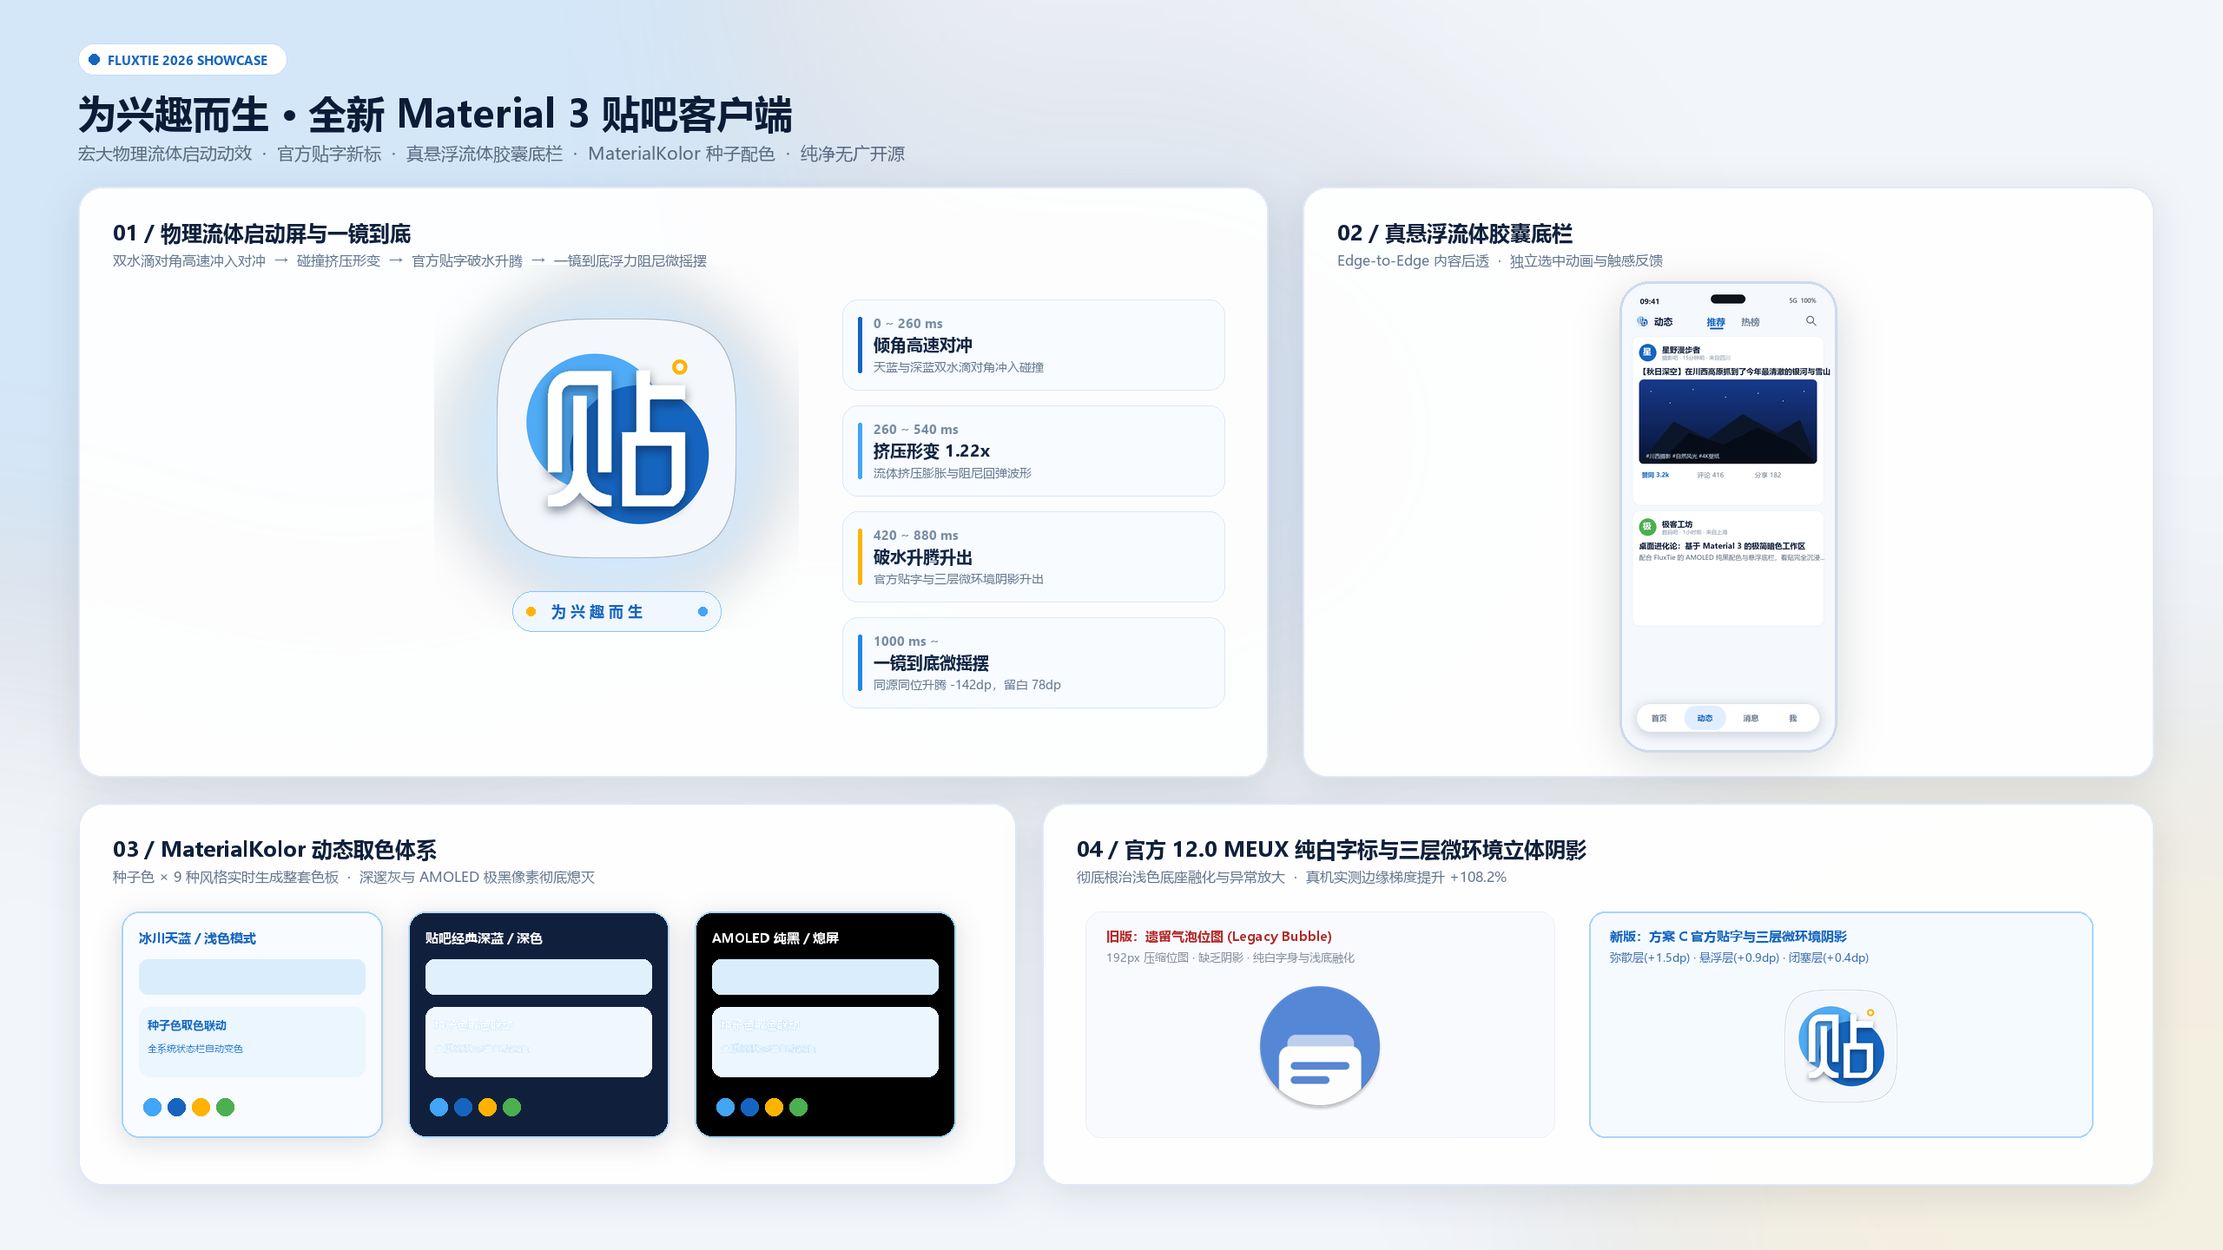
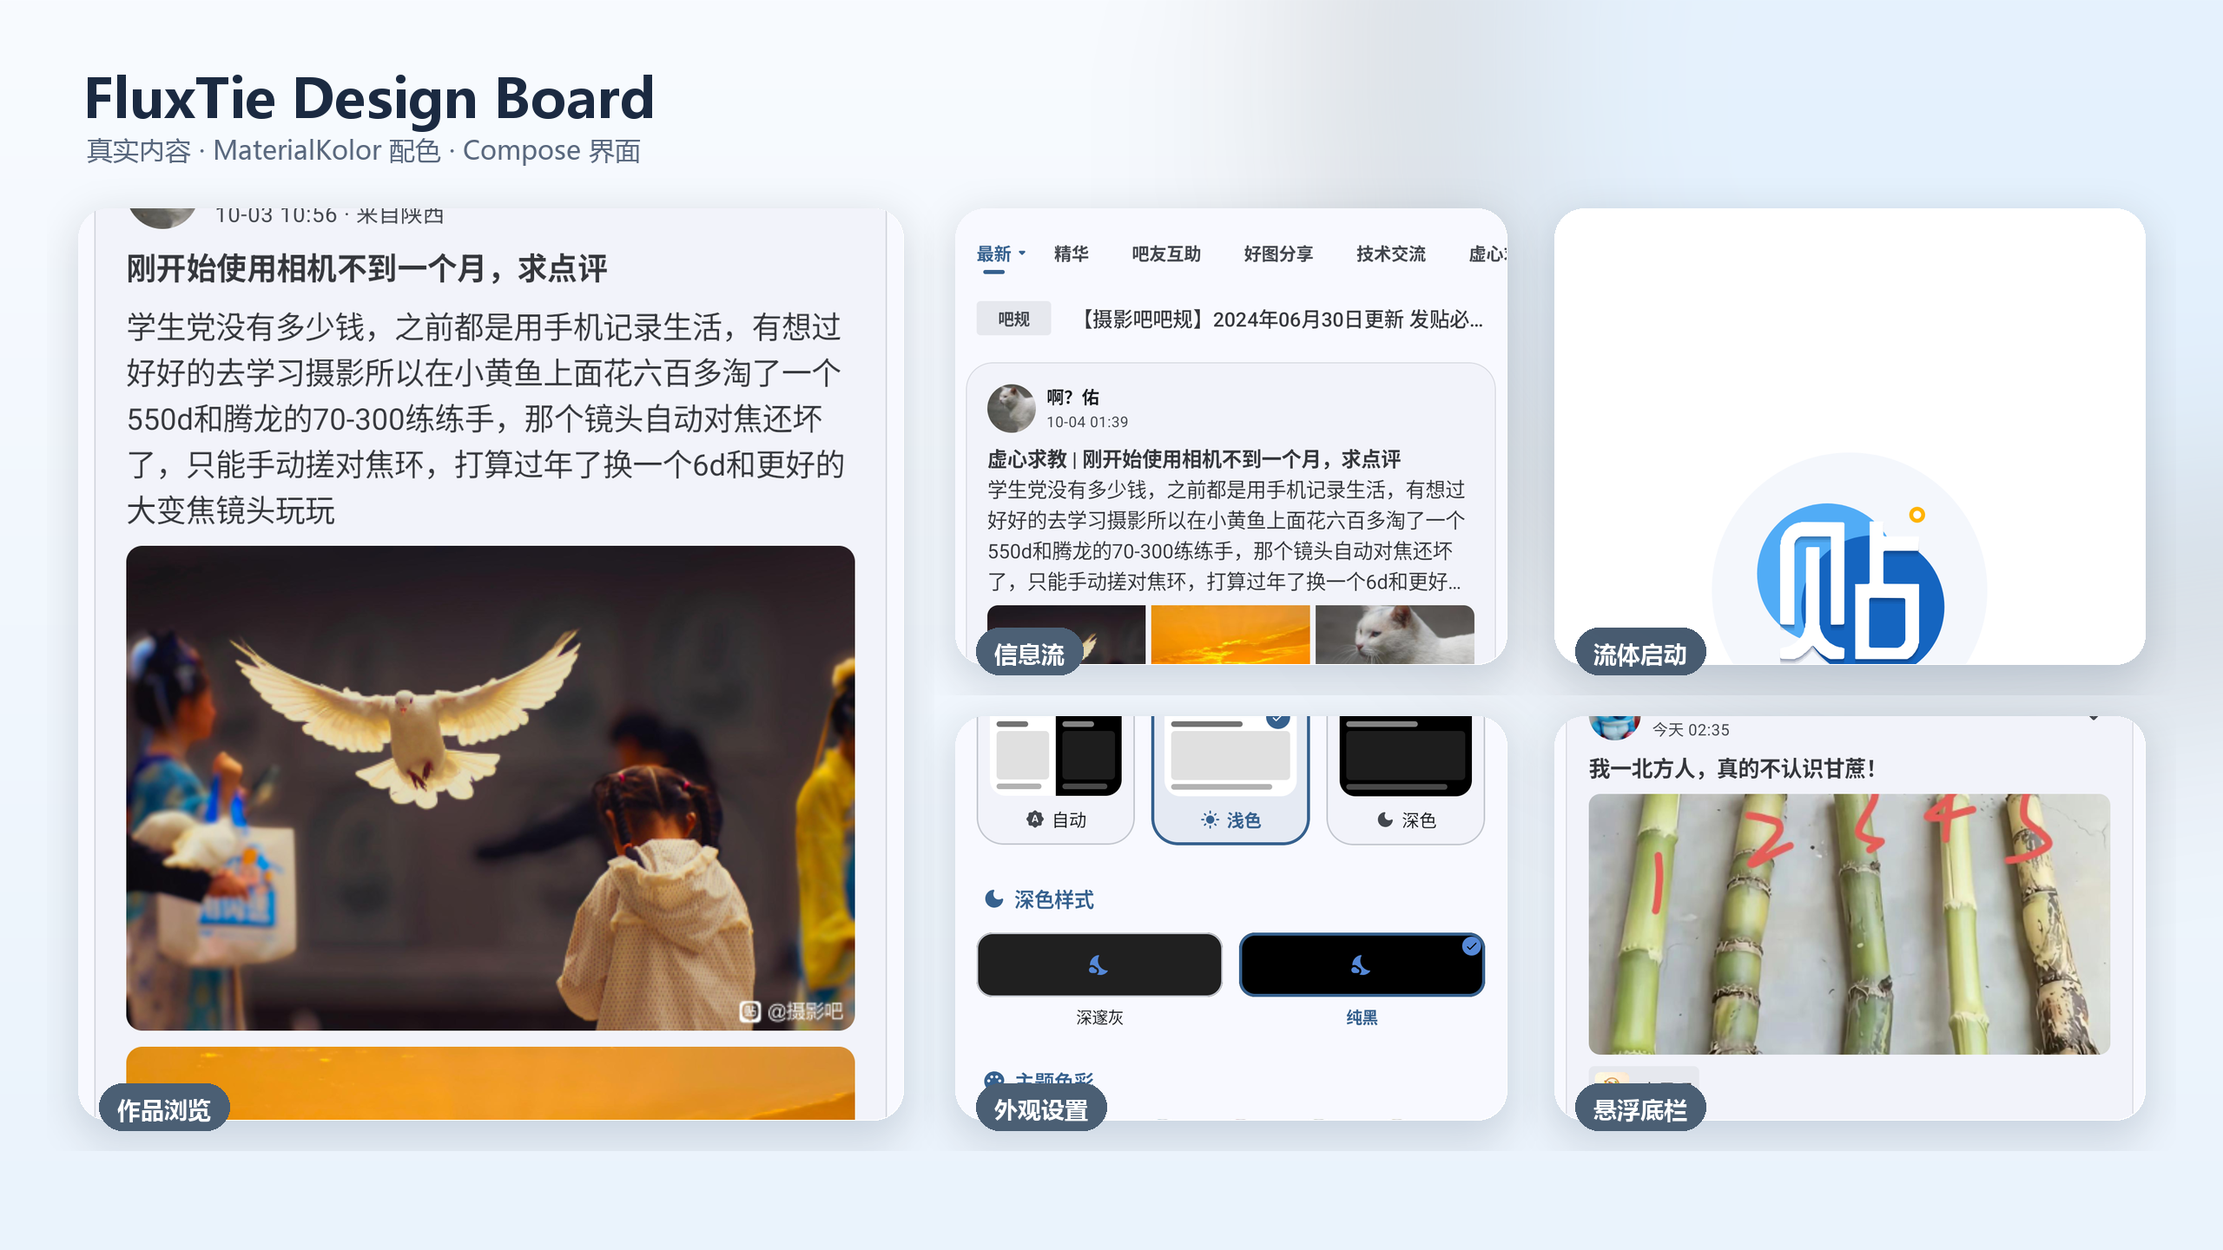
docs: 重写README并更新全部展示素材
- 重写项目介绍、原版对比、下载构建、Linux.do致谢与开源边界
- 重新生成热门头图、特性看板、Bento看板与六张界面预览图

diff --git a/README.md b/README.md
@@ -1,142 +1,143 @@
 <p align="center">
-  <img src="docs/images/logo.png?v=1.0.9" width="160" alt="FluxTie Logo" />
+  <img src="docs/images/logo.png?v=1.0.9-r4" width="128" alt="FluxTie Logo" />
 </p>
 
 <h1 align="center">FluxTie</h1>
 
 <p align="center">
-  一款 Material 3 风格的<strong>非官方第三方贴吧客户端</strong> — 基于 TiebaLite 深度重构，全新外观体系 · 真悬浮底栏 · MD3 动态配色 · 细腻动效
+  <strong>为兴趣而生</strong> —— 基于 TiebaLite 深度重构的非官方第三方贴吧客户端
 </p>
 
 <p align="center">
-  <a href="https://github.com/makise2060/FluxTie/releases"><img src="https://img.shields.io/github/v/release/makise2060/FluxTie?color=2563eb&label=Release&include_prereleases" alt="Release" /></a>
-  <a href="https://developer.android.com/about/versions/16"><img src="https://img.shields.io/badge/Android-7.0%2B_(API_23%2B)-3ddc84?logo=android&logoColor=white" alt="Min API" /></a>
+  <a href="https://github.com/makise2060/FluxTie/releases"><img src="https://img.shields.io/github/v/release/makise2060/FluxTie?color=1e88e5&label=Release" alt="Release" /></a>
+  <a href="https://developer.android.com/studio/releases/platforms#6.0"><img src="https://img.shields.io/badge/Android-6.0%2B%20(API%2023%2B)-3ddc84?logo=android&logoColor=white" alt="Android" /></a>
   <a href="https://kotlinlang.org"><img src="https://img.shields.io/badge/Kotlin-2.3-7f52ff?logo=kotlin&logoColor=white" alt="Kotlin" /></a>
-  <a href="https://developer.android.com/jetpack/compose"><img src="https://img.shields.io/badge/Jetpack%20Compose-2026.05-4285f4?logo=jetpackcompose&logoColor=white" alt="Compose" /></a>
-  <a href="https://developer.android.com/build/releases/gradle-plugin"><img src="https://img.shields.io/badge/AGP-9.4-006400?logo=gradle&logoColor=white" alt="AGP" /></a>
+  <a href="https://developer.android.com/jetpack/compose"><img src="https://img.shields.io/badge/Jetpack%20Compose-MaterialKolor-4285f4?logo=jetpackcompose&logoColor=white" alt="Jetpack Compose" /></a>
   <a href="https://github.com/makise2060/FluxTie/blob/main/LICENSE"><img src="https://img.shields.io/badge/License-GPL--3.0-red?logo=gnu&logoColor=white" alt="License" /></a>
 </p>
 
----
-
 > [!WARNING]
-> **本软件及源码仅供学习交流使用，严禁用于商业用途。**
-
-## 🌟 核心特性 Showcase
+> 本项目仅供学习交流，不用于商业用途；它不是百度或贴吧的官方客户端，相关商标与内容权利归其权利人所有。
 
 <p align="center">
-  <img src="docs/images/bento_grid_showcase.png?v=1.0.9" width="920" alt="FluxTie Bento Grid Showcase" />
+  <img src="docs/images/showcase_hero.png?v=1.0.9-r4" alt="FluxTie 主视觉" />
 </p>
 
-- 💧 **物理流体动力学启动**：双水滴对角高速冲入对冲 → 挤压形变阻尼回弹 → 官方贴字破水升腾 → 一镜到底浮力阻尼微摇摆与「为兴趣而生」随动流光微徽章。
-- 🎨 **MaterialKolor 种子配色**：种子色 × 9 种配色风格（柔和色调/鲜明/高保真…）实时生成整套色板，深色支持深邃灰与 AMOLED 极黑像素熄灭。
-- 🎈 **真悬浮胶囊底栏**：Edge-to-Edge 内容从毛玻璃胶囊后自然透出，触感反馈，Tab 切换交叉淡化平滑过渡。
-- 💬 **纯净体验打磨**：全量换装官方 12.0 MEUX 纯白字标与三层微环境立体阴影（锐度提升 +108.2%），个人表情包云同步与长按原地放大预览，纯净无广开源。
+## 项目简介
 
-## 📸 界面实机预览
+FluxTie fork 自 [HuanCheng65/TiebaLite](https://github.com/HuanCheng65/TiebaLite)，并以 [zzc10086/TiebaLite](https://github.com/zzc10086/TiebaLite) 的 4.0-dev 分支为基础继续深度重构。项目保留贴吧客户端的核心能力，同时以 Jetpack Compose、MaterialKolor 与现代 Android 工具链重新打磨浏览、主题、动效和更新体验。
+
+- 无自建内容后端，帖子、图片等贴吧业务数据直连官方接口。
+- 应用更新检查使用 GitHub Releases，不后台静默下载。
+- 应用 ID 为 <code>com.makise.fluxtie</code>，可与官方贴吧及原版 TiebaLite 共存。
+- 包名不同，因此不会接管原版数据；从原版迁移需重新登录并按需调整设置。
+
+## 核心特性
+
+<p align="center">
+  <img src="docs/images/feature_showcase.png?v=1.0.9-r4" alt="FluxTie 核心特性" />
+</p>
+
+- **双阶段流体启动**：系统启动屏与 Compose 启动覆盖层衔接，双水滴、贴字与星石构成完整启动动效。
+- **官方贴字新标**：参考贴吧 12.0 MEUX 字形重构“贴”字图标，并同步替换应用内主要图标资源。
+- **MaterialKolor 种子配色**：14 个预置种子色、自定义取色、9 种配色风格、浅色/深色/AMOLED 纯黑与 Android 12+ 系统取色。
+- **真悬浮底栏**：毛玻璃 Dock 悬浮于内容之上，支持按住拖拽、跟手预览、就近切换与触感反馈；低版本系统自动降级。
+- **个人表情包**：收藏与 DIY 表情支持云端同步，可在编辑器、帖子和评论中直接渲染。
+- **应用内更新**：检查、更新日志、下载进度、取消、系统安装与“忽略当前版本”一站式完成。
+- **现代图片链路**：以 Sketch 为主要图片加载框架，大图预览使用 ZoomImage，并保留缩略图占位与加载状态反馈。
+
+## 界面预览
 
 <div align="center">
 
-| 启动屏 (方案 C 流光) | 动态流 (悬浮底栏) | 沉浸看帖 (卡片排版) |
+| 启动屏 | 动态流 | 帖子页 |
 | :---: | :---: | :---: |
-| <img src="docs/images/preview_splash.png?v=1.0.9" width="280" alt="启动屏" /> | <img src="docs/images/preview_explore.png?v=1.0.9" width="280" alt="动态流" /> | <img src="docs/images/preview_thread.png?v=1.0.9" width="280" alt="帖子页" /> |
-| **我 (个人主页)** | **分组设置 (M3 规范)** | **外观引擎 (动态配色/极黑)** |
-| <img src="docs/images/preview_user.png?v=1.0.9" width="280" alt="个人主页" /> | <img src="docs/images/preview_settings.png?v=1.0.9" width="280" alt="分组设置" /> | <img src="docs/images/preview_appearance.png?v=1.0.9" width="280" alt="外观与取色" /> |
+| <img src="docs/images/preview_splash.png?v=1.0.9-r4" width="240" alt="启动屏" /> | <img src="docs/images/preview_explore.png?v=1.0.9-r4" width="240" alt="动态流" /> | <img src="docs/images/preview_thread.png?v=1.0.9-r4" width="240" alt="帖子页" /> |
+| **吧页信息流** | **外观设置** | **设置主页** |
+| <img src="docs/images/preview_forum.png?v=1.0.9-r4" width="240" alt="吧页信息流" /> | <img src="docs/images/preview_appearance.png?v=1.0.9-r4" width="240" alt="外观设置" /> | <img src="docs/images/preview_settings.png?v=1.0.9-r4" width="240" alt="设置主页" /> |
 
 </div>
 
-## ✨ 特性
+<p align="center">
+  <img src="docs/images/bento_grid_showcase.png?v=1.0.9-r4" alt="FluxTie 设计看板" />
+</p>
 
-- 🎨 **MD3 动态配色** — 种子色 × 9 种配色风格（柔和色调/鲜明/高保真…）实时生成整套配色，14 款精选预置色板 + 自定义取色，全部即点即生效
-- 🌗 **深浅模式** — 浅色 / 深色 / 跟随系统三卡预览；深色样式支持深邃灰与 AMOLED 纯黑
-- 🎈 **真悬浮胶囊底栏** — 内容 edge-to-edge 从半透明胶囊后透出，选中胶囊动画 + 触感反馈，Tab 切换交叉淡化过渡
-- 🎬 **M3 动效体系** — 居中 Logo 一镜到底上浮连贯承接、Shared Axis 页面转场、液态 blob 水球 Loading、骨架屏加载、预测性返回手势预览
-- 💗 **点赞微动效** — 心跳脉冲 + 光环扩散 + 粒子爆发 + 数字滚动，全站统一点赞体验
-- 📜 **顶栏滚动收起** — 动态页内容上滑自动收起标题栏，双击快速回顶
-- 🗂 **分组卡片式设置** — 对齐 Android 13+ 系统设置观感的分组卡片体系，全局 Material 3 开关组件
-- 📋 **应用日志** — 内置日志查看器，级别过滤 / 一键复制 / 分享，问题反馈更高效
-- 💬 **完整贴吧能力** — 首页 / 动态（关注·推荐·热榜）/ 通知 / 我的，看贴回贴、一键签到等原版功能全部保留
+## 相对原版的升级
 
-## 🚀 相对原版的升级
+| 维度 | 原版 TiebaLite | FluxTie |
+| --- | --- | --- |
+| 界面方向 | 以既有 View/XML 界面为主 | 新 UI 以 Jetpack Compose 为主，逐步统一页面与组件 |
+| 主题系统 | 固定主题列表，部分调整不够即时 | MaterialKolor 种子色引擎，14 个预置色、9 种风格与实时预览 |
+| 深色体验 | 深色模式能力较基础 | 浅色、深色、深邃灰、AMOLED 纯黑及 Android 12+ 系统取色 |
+| 底部导航 | 贴底导航栏 | 可开关的悬浮毛玻璃 Dock，支持拖拽切换与动效反馈 |
+| 启动体验 | 静态图标与传统淡入 | 系统启动屏加 Compose 覆盖层的双阶段流体动效 |
+| 图片体验 | 传统图片加载与查看 | Sketch 加载、缩略图占位、crossfade 与 ZoomImage 大图预览 |
+| 表情能力 | 基础表情与收藏 | 收藏/DIY 云端同步、编辑器渲染、长按预览与帖子评论展示 |
+| 应用更新 | 以手动下载安装为主 | GitHub Releases 检查、下载、安装与版本忽略 |
+| 工具链 | AGP 8.13、Gradle 8.14、compileSdk 36 | AGP 9.4、Gradle 9.7、Kotlin 2.3、compileSdk/targetSdk 37 |
+| 应用共存 | <code>com.huanchengfly.tieba.post</code> | <code>com.makise.fluxtie</code>，可与原版和官方客户端共存 |
 
-本项目 Fork 自 [TiebaLite](https://github.com/zzc10086/TiebaLite)，在原版基础上完成了一次系统的现代化改造：
+签到、多账号、发帖回帖、收藏、屏蔽、浏览记录、内置日志查看器等上游能力继续保留，并在新界面中逐步统一交互与视觉。
 
-### 🎨 主题引擎重做
-| 原版 | FluxTie |
-|---|---|
-| 固定主题名列表（清新蓝/少女粉…） | **MD3 种子配色**：种子色 × 配色风格动态生成整套色板 |
-| Material You 动态取色（仅 Android 12+） | MaterialKolor 引擎，全版本可用 |
-| 选色后部分效果需重启 | 全部即时生效，设置页所见即所得 |
+## 下载与安装
 
-### 🛠 工具链升级
-| 组件 | 原版 | FluxTie |
-|---|---|---|
-| Android Gradle Plugin | 8.13.2 | **9.4.0**（内置 Kotlin 支持） |
-| Gradle | 8.14.5 | **9.7.1** |
-| compileSdk / targetSdk | 36 | **37** |
-| Hilt | 2.58 | **2.60** |
-| 配色引擎 | — | **MaterialKolor 5.0.1** |
+1. 在 [Releases](https://github.com/makise2060/FluxTie/releases) 下载最新 APK。
+2. 最低支持 **Android 6.0（API 23）**。
+3. v1.0.3 起发布签名已统一，后续版本可正常覆盖升级；**v1.0.2 及更早版本升级前需先卸载**。
+4. FluxTie 与官方贴吧、原版 TiebaLite 包名不同，可直接共存安装。
 
-### 🧹 细节打磨
-- Logo 焕新与一镜到底启动动效：流光卡片（Flux-Tie Bubble）设计语言，融合贴吧经典对话气泡与 M3 双层悬浮流体，全套自适应与 Android 13+ 单色主题图标；系统启动屏 1000ms AVD 矢量动效 ➔ 居中 Logo 一镜到底平滑上浮并缩放收敛为头部图标 ➔ 随动展开标语与液态水球 Loading，彻底告别页面跳闪与生硬过渡
-- 卡片化列表：动态流 / 吧页 / 帖子楼层统一 12dp 留白与发丝线描边，告别生硬分隔线
-- 点赞微动效：心跳双脉冲 + 旋转摆动 + 光环粒子爆发，全站统一点赞组件
-- 骨架屏体系：帖子页 / 楼中楼 / 吧页 / 个人页加载骨架，Shimmer 高光扫过
-- 真悬浮底栏：列表呼吸位统一，末项可完整滚出胶囊（开关可回退传统贴底样式）
-- 预测性返回：返回手势实时预览页面退场动画（Android 13+，使用习惯设置可关闭）
-- 权限弹窗统一新图标；状态栏字体颜色随明暗模式正确切换
-- KSP 全链路构建，Java 17 目标，`FluxTie-v{版本}-{渠道}.apk` 规范命名
+CI 会基于 <code>v*</code> tag 自动构建 APK 并上传 Release；Release 正文与截图以发布页为准。
 
-## 📥 下载
+## 构建
 
-前往 [**Releases**](https://github.com/makise2060/FluxTie/releases) 下载最新 APK，或自行构建（见下）。
+要求 **JDK 17+**、Android SDK 与可执行 Gradle Wrapper 的环境。
 
-> [!NOTE]
-> 本包名（`com.makise.fluxtie`）与原版 TiebaLite 不同，可作为独立应用安装，互不影响。
-
-## 🛠 技术栈
-
-| 层 | 技术 |
-|---|---|
-| 语言 | **Kotlin 2.3** · Java 17 |
-| UI | **Jetpack Compose**（Material 组件 + 自研 M3 风格组件库） |
-| 主题 | **MaterialKolor 5.0**（MD3 DynamicSchemeVariant 配色引擎） |
-| 架构 | 手写 MVI（Intent → PartialChange → State → Event） |
-| 依赖注入 | Hilt 2.60（全 KSP，无 kapt） |
-| 网络 | Retrofit + OkHttp + Wire protobuf（贴吧 c/tiebac 接口） |
-| 持久化 | Room 40（账号/历史/草稿）+ DataStore（偏好） |
-| 导航 | compose-destinations 1.11（单 Activity + 底部抽屉目的地） |
-| 图片 | Sketch 3.3（GIF/HEIF 支持）+ Glide（遗留通道） |
-| 构建 | AGP 9.4 · Gradle 9.7.1 · KSP |
-
-## 🏗 构建
-
-```bash
-# 克隆
+~~~bash
 git clone https://github.com/makise2060/FluxTie.git
 cd FluxTie
-
-# 需要 JDK 17+，Android SDK 37；local.properties 配置 sdk.dir
 ./gradlew assembleDebug
-# 产物：app/build/outputs/apk/debug/FluxTie-v{版本}.apk
-```
+~~~
 
-## 🧬 Fork 谱系与致谢
+Debug APK 输出位置：
 
-```text
-HuanCheng65/TiebaLite（原版）
-  └── zzc10086/TiebaLite（fork）
-        └── makise2060/FluxTie（本项目）
-```
+~~~text
+app/build/outputs/apk/debug/FluxTie-v{version}.apk
+~~~
 
-- [**HuanCheng65/TiebaLite**](https://github.com/HuanCheng65/TiebaLite) — 原始项目，感谢原作者及所有贡献者
-- [**zzc10086/TiebaLite**](https://github.com/zzc10086/TiebaLite) — fork 自原版，本项目基于其 4.0-dev 分支
-- [**Lingyan000/fluxdo**](https://github.com/Lingyan000/fluxdo) — 外观设置体系的灵感与设计参考
-- [**appshubcc/Bettbox**](https://github.com/appshubcc/Bettbox) — 设置页与底栏交互的设计参考
-- [Starry-OvO/aiotieba](https://github.com/Starry-OvO/aiotieba) · [n0099/tbclient.protobuf](https://github.com/n0099/tbclient.protobuf) — 贴吧协议研究
+本地 SDK 路径通过 <code>local.properties</code> 的 <code>sdk.dir</code> 配置；Release 构建会启用 R8 与资源收缩。
 
-## 📄 License
+## 技术栈
 
-[GPL-3.0](LICENSE) © 原作者及 FluxTie 贡献者
+- Kotlin 2.3
+- Jetpack Compose（Material 2 组件基座 + MaterialKolor 动态配色）
+- Hilt、KSP、手写 MVI
+- Retrofit、OkHttp、Wire
+- Room、DataStore、kotlinx.serialization
+- Sketch、ZoomImage
+- AGP 9.4、Gradle 9.7、compileSdk/targetSdk 37
 
-本程序为自由软件，在 GPL-3.0 协议下你可以自由使用、学习、修改与分发。
+## 开源边界与安全说明
+
+- 本仓库不提供贴吧内容镜像，也不收集帖子数据；登录与业务请求由客户端直连相应服务。
+- 应用更新、发布说明与安装包来自 GitHub Releases。
+- 请勿将本项目用于冒充官方客户端、抓取滥用、骚扰他人或其他违反服务条款与法律法规的用途。
+- 源码按 GPL-3.0 发布；使用、修改与分发时仍需遵守上游协议、第三方资源许可及本项目的学习交流声明。
+
+## Linux.do 致谢
+
+<p align="center">
+  <img src="docs/images/linuxdo_thanks.png?v=1.0.9-r4" alt="感谢 Linux.do 社区" />
+</p>
+
+FluxTie 的开发与迭代离不开 [Linux.do](https://linux.do/) 社区。感谢分享搞机经验、讨论设计方向、试用开发版并反馈问题的每一位朋友；你们的真诚、友善、团结与专业，让这个项目得以持续完善。
+
+## 致谢
+
+- [HuanCheng65/TiebaLite](https://github.com/HuanCheng65/TiebaLite)：原作。
+- [zzc10086/TiebaLite](https://github.com/zzc10086/TiebaLite)：本项目所基于的 4.0-dev 分支。
+- [Lingyan000/fluxdo](https://github.com/Lingyan000/fluxdo)：外观与界面设计参考。
+- [aiotieba](https://github.com/Starry-OvO/aiotieba) 与 [tbclient.protobuf](https://github.com/n0099/tbclient.protobuf)：贴吧协议研究参考。
+
+## License
+
+[GPL-3.0](LICENSE) © 原作者及 FluxTie 贡献者。
